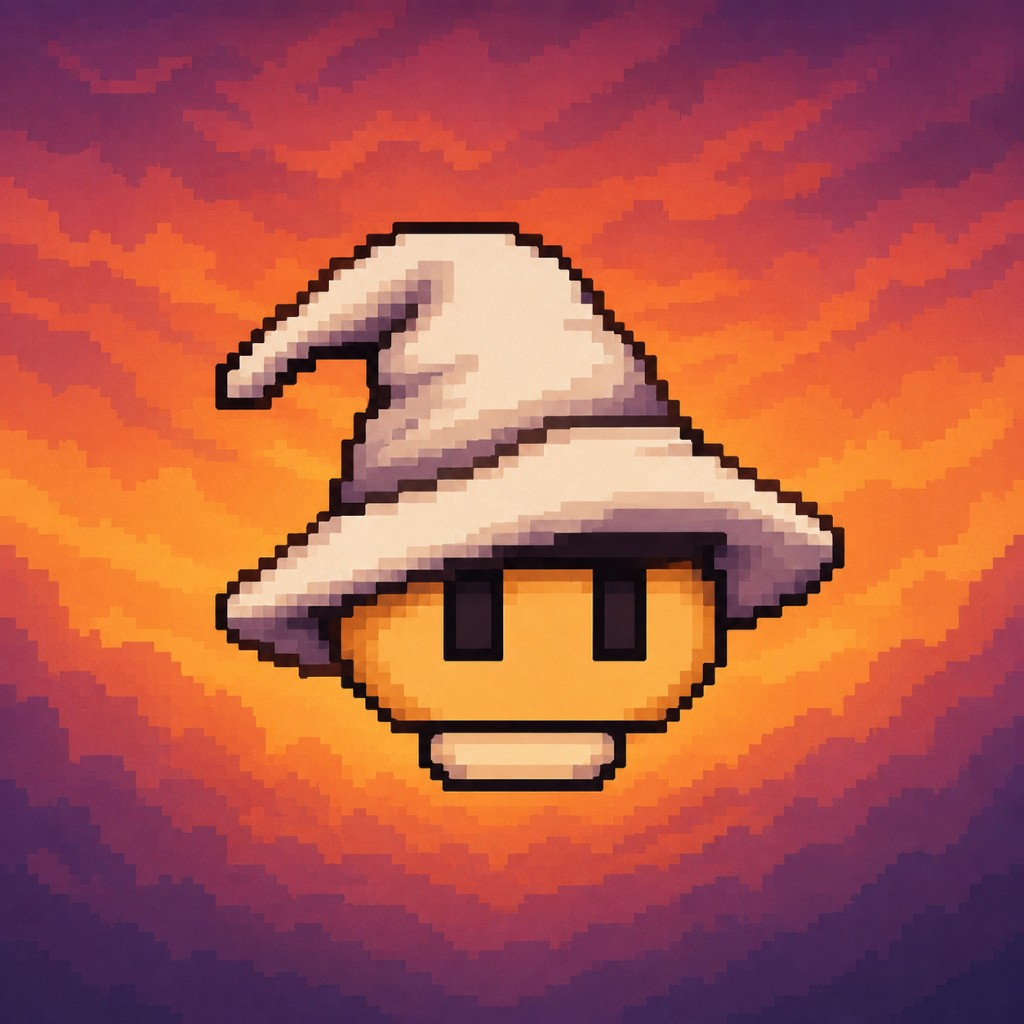
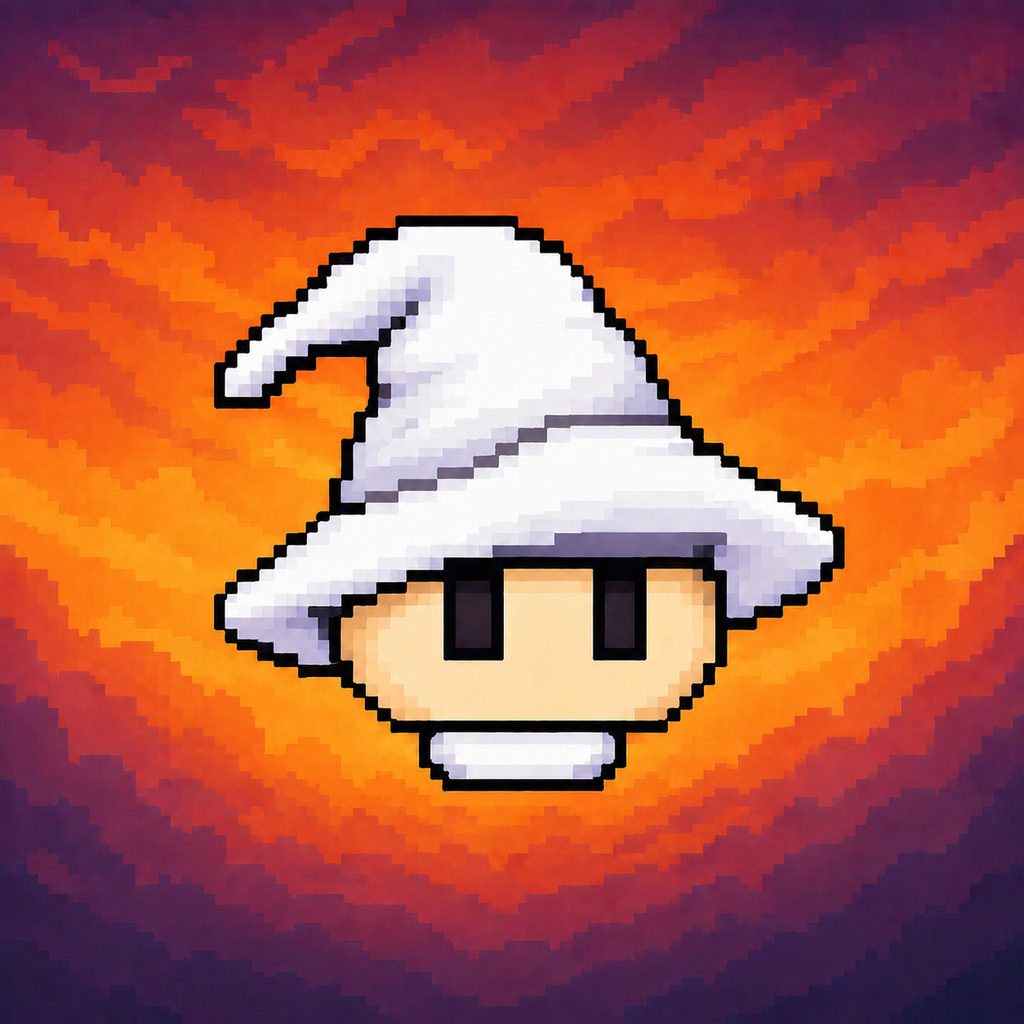
Ajusta o APK 0.2.3: ícone novo e nomes das skins em duas linhas.

diff --git a/src/i18n/textos-jogo.ts b/src/i18n/textos-jogo.ts
@@ -168,8 +168,8 @@ const pt = {
     'bau-moedas': { nome: 'Baú de moedas', descricao: '500 moedas extras' },
     'bolsa-moedas': { nome: 'Bolsa de moedas', descricao: '300 moedas extras' },
     'pacote-mini-moedas': { nome: 'Pacote mini', descricao: '100 moedas extras' },
-    'gorro-tec': { nome: 'Chapeu-Tec', descricao: 'Chapéu do tecnomago' },
-    'gorro-viking': { nome: 'Capacete-Viking', descricao: 'Elmo com chifres' },
+    'gorro-tec': { nome: 'Chapeu\nTec', descricao: 'Chapéu do tecnomago' },
+    'gorro-viking': { nome: 'Capacete\nViking', descricao: 'Elmo com chifres' },
     'orb-robot': { nome: 'Robot-Orb', descricao: 'Companheiro robótico' },
     'orb-runa': { nome: 'Runa-Orb', descricao: 'Runa giratória' },
   } as Record<string, { nome: string; descricao: string }>,
@@ -334,8 +334,8 @@ const en: TextosJogo = {
   itens: {
     'pocion-vida': { nome: 'Life potion', descricao: 'Restores 1 heart' },
     'carta-7dias': { nome: '7-day card', descricao: '1 extra heart for 7 days' },
-    'gorro-tec': { nome: 'Tech-Hat', descricao: 'Technomage hat' },
-    'gorro-viking': { nome: 'Viking-Helmet', descricao: 'Horned helm' },
+    'gorro-tec': { nome: 'Tech\nHat', descricao: 'Technomage hat' },
+    'gorro-viking': { nome: 'Viking\nHelmet', descricao: 'Horned helm' },
     'orb-robot': { nome: 'Robot-Orb', descricao: 'Robotic companion' },
     'orb-runa': { nome: 'Rune-Orb', descricao: 'Spinning rune' },
     'bau-moedas': { nome: 'Coin chest', descricao: '500 extra coins' },
@@ -501,8 +501,8 @@ const es: TextosJogo = {
   itens: {
     'pocion-vida': { nome: 'Poción de vida', descricao: 'Recupera 1 corazón' },
     'carta-7dias': { nome: 'Carta 7 días', descricao: '1 corazón extra por 7 días' },
-    'gorro-tec': { nome: 'Chapeu-Tec', descricao: 'Sombrero tecnomago' },
-    'gorro-viking': { nome: 'Capacete-Viking', descricao: 'Yelmo con cuernos' },
+    'gorro-tec': { nome: 'Chapeu\nTec', descricao: 'Sombrero tecnomago' },
+    'gorro-viking': { nome: 'Capacete\nViking', descricao: 'Yelmo con cuernos' },
     'orb-robot': { nome: 'Robot-Orb', descricao: 'Compañero robótico' },
     'orb-runa': { nome: 'Runa-Orb', descricao: 'Runa giratoria' },
     'bau-moedas': { nome: 'Cofre de monedas', descricao: '500 monedas extra' },

diff --git a/src/screens/TiendaScreen.tsx b/src/screens/TiendaScreen.tsx
@@ -507,9 +507,13 @@ function CartaoItem({
           }}
         >
           <Text
-            style={[estilos.nomeNoHeader, item.tipo === 'skin' && estilos.nomeSkinNoHeader]}
+            style={[
+              estilos.nomeNoHeader,
+              item.tipo === 'skin' && estilos.nomeSkinNoHeader,
+              textosItem.nome.includes('\n') && estilos.nomeSkinDuasLinhas,
+            ]}
             numberOfLines={item.tipo === 'skin' ? 2 : 1}
-            adjustsFontSizeToFit
+            adjustsFontSizeToFit={!textosItem.nome.includes('\n')}
             minimumFontScale={item.tipo === 'skin' ? 0.75 : 0.7}
           >
             {textosItem.nome}
@@ -687,6 +691,10 @@ const estilos = StyleSheet.create({
   nomeSkinNoHeader: {
     fontSize: 8,
     lineHeight: 10,
+  },
+  nomeSkinDuasLinhas: {
+    fontSize: 7,
+    lineHeight: 9,
   },
   descNoHeader: {
     marginTop: 1,

diff --git a/src/data/itens-loja.ts b/src/data/itens-loja.ts
@@ -48,14 +48,14 @@ export const ITENS_LOJA: ItemLoja[] = [
   // Skins primeiro na vitrine — preço em moedas do jogo.
   {
     id: 'gorro-tec',
-    nome: 'Chapeu-Tec',
+    nome: 'Chapeu\nTec',
     descricao: 'Chapéu do tecnomago',
     tipo: 'skin',
     skin: 'gorro-tec',
   },
   {
     id: 'gorro-viking',
-    nome: 'Capacete-Viking',
+    nome: 'Capacete\nViking',
     descricao: 'Elmo com chifres',
     tipo: 'skin',
     skin: 'gorro-viking',
